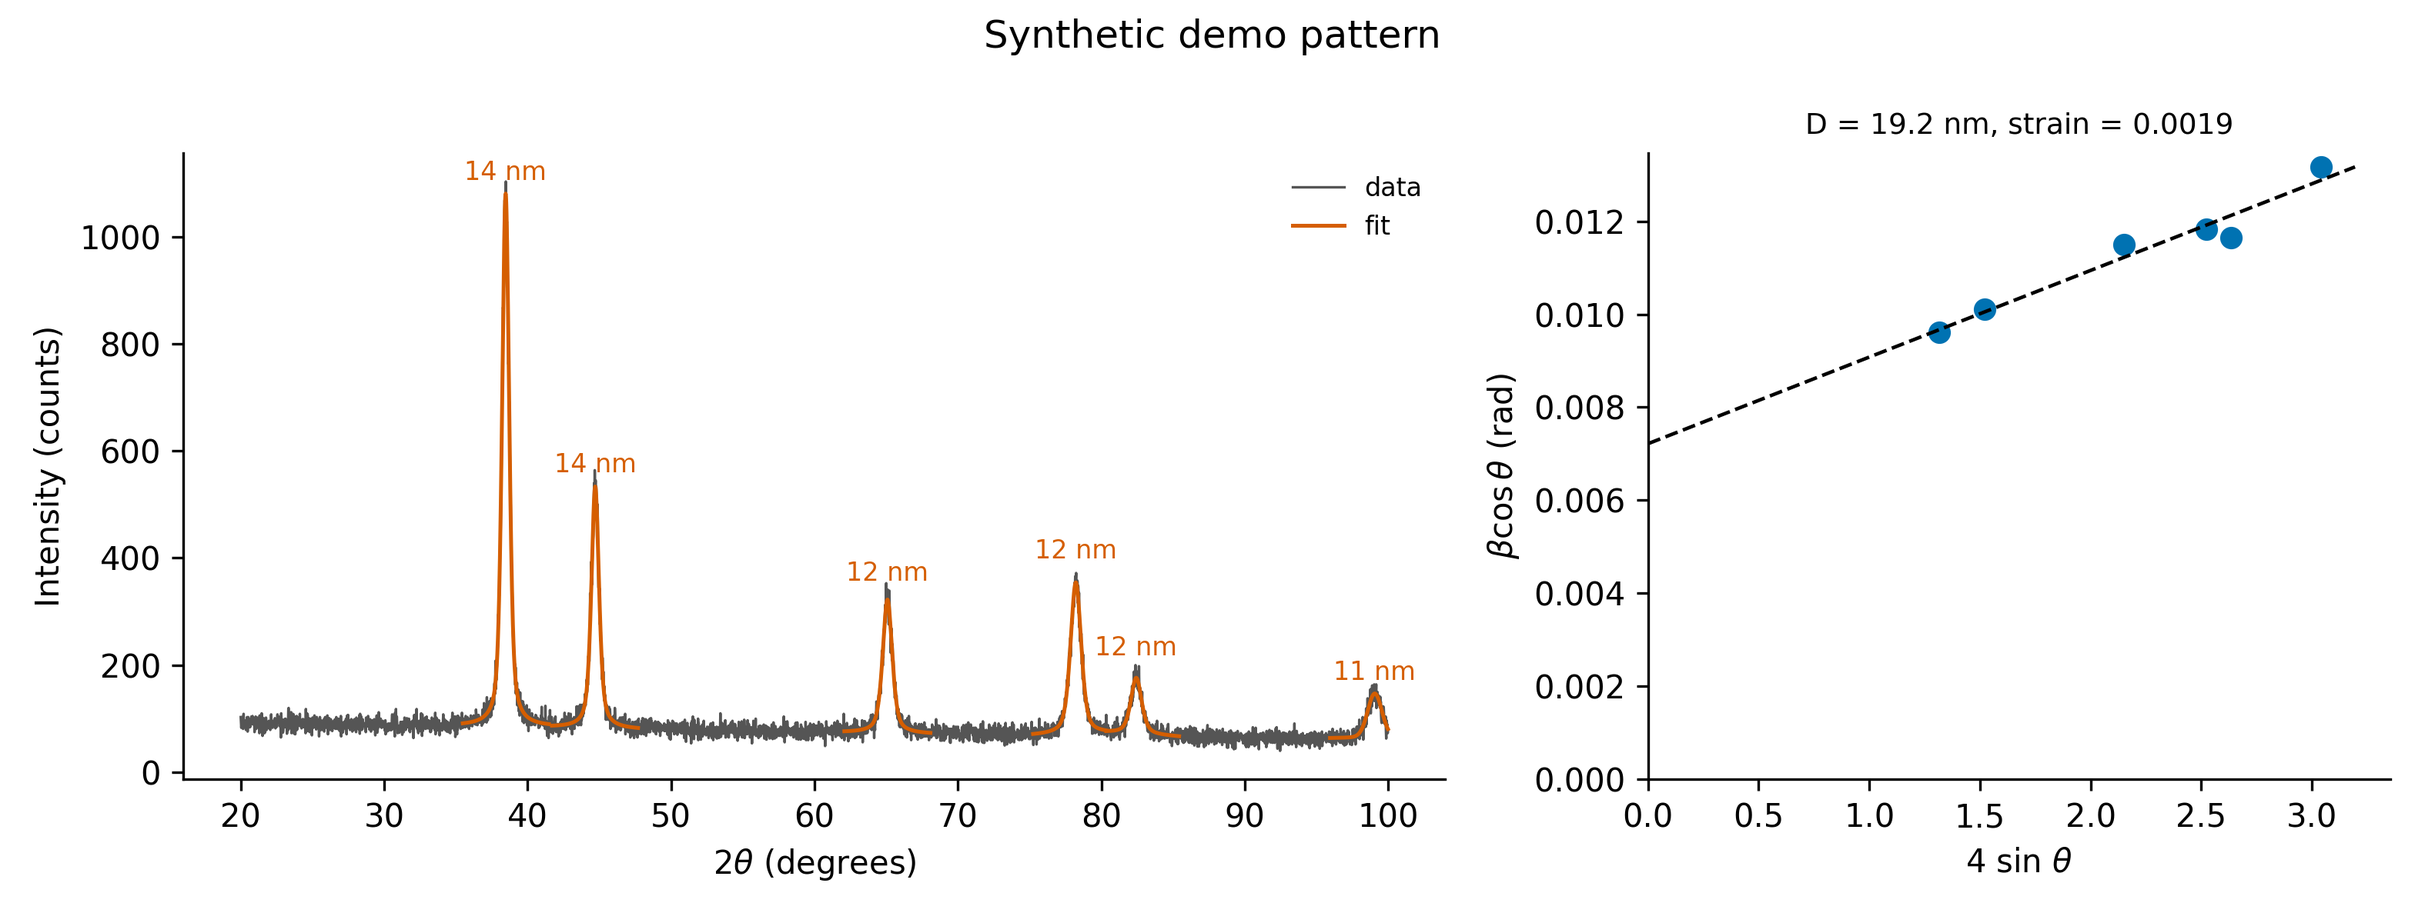
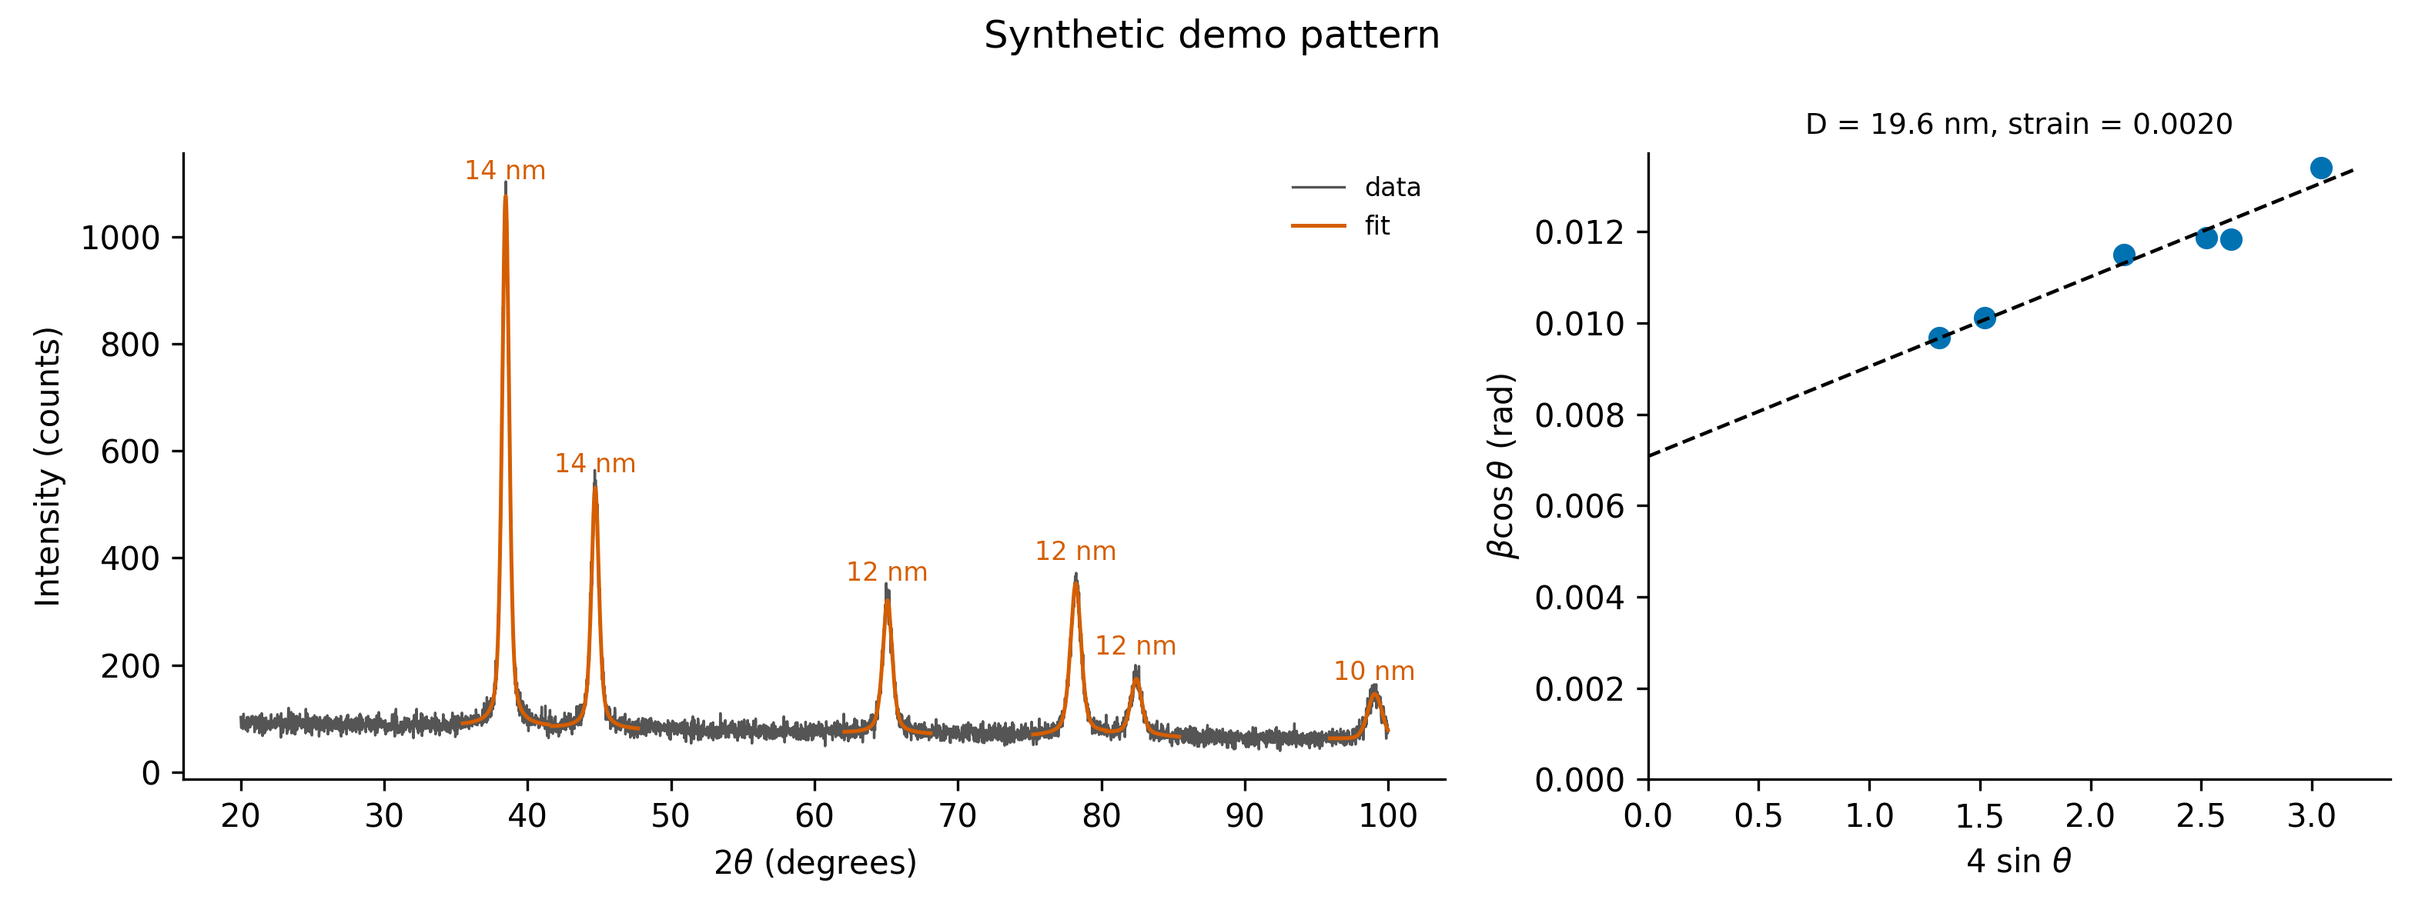
Day 17: weight peak fits by counting statistics so the fit uncertainties are calibrated

diff --git a/days/day17-xrd-scherrer/tool.py b/days/day17-xrd-scherrer/tool.py
@@ -26,7 +26,7 @@ from scipy.signal import find_peaks, savgol_filter
 K_DEFAULT = 0.9
 MIN_POINTS = 10
 RESULT_COLUMNS = ["two_theta_deg", "d_angstrom", "fwhm_obs_deg", "fwhm_corrected_deg", "size_nm", "size_unc_nm",
-                  "eta", "r_squared"]
+                  "eta", "r_squared", "chi2_reduced"]
 
 # Wavelengths in angstrom, as listed by the UNSW XRD Lab (Tian, "Choice of X-ray sources") and the UNT lecture
 # notes on XRD (Golden): the K-alpha1 line and the K-alpha weighted average of the alpha1/alpha2 doublet.
@@ -166,8 +166,20 @@ def detect_peaks(p: Pattern, prominence: float = 0.05, smooth: int | None = None
     return [float(p.x[i]) for i in idx]
 
 
-def fit_peak(p: Pattern, center: float, lo: float, hi: float) -> dict:
-    """Pseudo-Voigt fit of the peak near `center` using only the points between lo and hi."""
+def resolve_weights(mode: str, y: np.ndarray) -> str:
+    """'poisson' or 'none'. With 'auto', non-negative whole numbers are taken to be raw counts."""
+    if mode != "auto":
+        return mode
+    counts = bool(np.all(y >= 0) and np.all(np.abs(y - np.round(y)) < 1e-6))
+    return "poisson" if counts else "none"
+
+
+def fit_peak(p: Pattern, center: float, lo: float, hi: float, weights: str = "none") -> dict:
+    """Pseudo-Voigt fit of the peak near `center` using only the points between lo and hi.
+
+    weights='poisson' weights each point by its counting uncertainty sqrt(counts) and reports uncertainties from
+    those absolute weights (valid for raw counts). weights='none' fits with equal weights and scales the
+    uncertainties by the scatter of the residuals; this is only a rough guide when the noise grows with the signal."""
     mask = (p.x >= lo) & (p.x <= hi)
     if mask.sum() < MIN_POINTS:
         raise ValueError(f"too few points around {center:.2f} degrees")
@@ -179,8 +191,11 @@ def fit_peak(p: Pattern, center: float, lo: float, hi: float) -> dict:
     guess = [amp0, center, w0, 0.5, base, 0.0]
     bounds = ([0, center - w0, float(np.median(np.diff(x))), 0.0, -np.inf, -np.inf],
               [np.inf, center + w0, hi - lo, 1.0, np.inf, np.inf])
+    poisson = weights == "poisson"
+    sigma = np.sqrt(np.maximum(y, 1.0)) if poisson else None
     try:
-        popt, pcov = curve_fit(pseudo_voigt, x, y, p0=guess, bounds=bounds, maxfev=20000)
+        popt, pcov = curve_fit(pseudo_voigt, x, y, p0=guess, bounds=bounds, sigma=sigma, absolute_sigma=poisson,
+                               maxfev=20000)
     except (RuntimeError, ValueError) as err:
         raise ValueError(f"the fit near {center:.2f} degrees did not converge") from err
     err = np.sqrt(np.clip(np.diag(pcov), 0, None))
@@ -188,12 +203,15 @@ def fit_peak(p: Pattern, center: float, lo: float, hi: float) -> dict:
     near = np.abs(x - popt[1]) <= 1.5 * popt[2]
     resid = y[near] - pseudo_voigt(x[near], *popt)
     ss_tot = float(np.sum((y[near] - y[near].mean()) ** 2)) if near.sum() > 2 else 0.0
+    dof = x.size - len(popt)
+    chi2_red = float(np.sum(((y - pseudo_voigt(x, *popt)) / sigma) ** 2) / dof) if poisson and dof > 0 else None
     return {"amp": float(popt[0]), "x0": float(popt[1]), "fwhm": float(popt[2]), "eta": float(popt[3]),
             "fwhm_unc": float(err[2]), "x0_unc": float(err[1]), "popt": popt, "window": (float(x.min()), float(x.max())),
+            "chi2_red": chi2_red,
             "r2": 1.0 - float(np.sum(resid**2)) / ss_tot if ss_tot > 0 else None}
 
 
-def fit_all(p: Pattern, centers: list[float], max_half_window: float = 3.0) -> list[dict]:
+def fit_all(p: Pattern, centers: list[float], max_half_window: float = 3.0, weights: str = "none") -> list[dict]:
     """Fit every peak in a window that stops halfway to the neighbouring peaks."""
     centers = sorted(centers)
     fits = []
@@ -202,7 +220,7 @@ def fit_all(p: Pattern, centers: list[float], max_half_window: float = 3.0) -> l
         lo = c - half if i == 0 else max(c - half, (centers[i - 1] + c) / 2)
         hi = c + half if i == len(centers) - 1 else min(c + half, (centers[i + 1] + c) / 2)
         try:
-            fits.append(fit_peak(p, c, lo, hi))
+            fits.append(fit_peak(p, c, lo, hi, weights))
         except ValueError as err:
             print(f"[warn] {err}; peak skipped", file=sys.stderr)
     return fits
@@ -221,6 +239,10 @@ def size_warnings(rows: list[dict], inst: float, fits: list[dict] | None) -> lis
             notes.append(f"peak at {tt} degrees is only {r['fwhm_obs_deg'] / inst:.1f} times the instrumental width: "
                          "the size is very sensitive to the instrument value")
     for f in fits or []:
+        if f.get("chi2_red") is not None and f["chi2_red"] > 3:
+            notes.append(f"the peak at {f['x0']:.2f} degrees is not described within counting statistics (reduced "
+                         f"chi-square {f['chi2_red']:.1f}): its uncertainty is too small. Check for overlapping peaks "
+                         "or a different peak shape")
         if f["r2"] is not None and f["r2"] < 0.8:
             notes.append(f"the fit of the peak at {f['x0']:.2f} degrees is poor (R2 = {f['r2']:.3f}): check for "
                          "overlapping peaks or a noisy pattern")
@@ -295,7 +317,8 @@ def write_csv(path: Path, rows: list[dict], fits: list[dict] | None) -> None:
                 "size_nm": "" if r["size_nm"] is None else round(r["size_nm"], 2),
                 "size_unc_nm": "" if r["size_unc_nm"] is None else round(r["size_unc_nm"], 2),
                 "eta": "" if fit is None else round(fit["eta"], 3),
-                "r_squared": "" if fit is None or fit["r2"] is None else round(fit["r2"], 5)})
+                "r_squared": "" if fit is None or fit["r2"] is None else round(fit["r2"], 5),
+                "chi2_reduced": "" if fit is None or fit.get("chi2_red") is None else round(fit["chi2_red"], 3)})
 
 
 def main() -> int:
@@ -315,6 +338,9 @@ def main() -> int:
     ap.add_argument("--smooth", type=int, default=None, metavar="N",
                     help="smoothing window used only to detect peaks (default: about 0.25 degrees, 0 turns it off)")
     ap.add_argument("--min-separation", type=float, default=0.5, help="minimum distance between peaks in degrees")
+    ap.add_argument("--weights", choices=["auto", "poisson", "none"], default="auto",
+                    help="point weights in the peak fits: poisson (raw counts), none, or auto (default: poisson if the "
+                         "intensities are whole numbers)")
     ap.add_argument("--window", type=float, default=3.0,
                     help="half-width in degrees of the fit window around each peak (default 3; widen it for very broad peaks)")
     ap.add_argument("--column", help="intensity column (header name or number)")
@@ -336,7 +362,7 @@ def main() -> int:
         wavelength = args.wavelength if args.wavelength is not None else WAVELENGTHS[args.source]
         if wavelength <= 0 or args.k <= 0 or args.inst_fwhm < 0:
             raise ValueError("--wavelength and --k must be positive and --inst-fwhm must not be negative")
-        pattern, fits = None, None
+        pattern, fits, weights = None, None, "none"
         if args.peak:
             if any(tt <= 0 or tt >= 180 or w <= 0 for tt, w in args.peak):
                 raise ValueError("peak positions must be between 0 and 180 degrees and widths must be positive")
@@ -359,7 +385,11 @@ def main() -> int:
                 raise ValueError("no peaks found; try a smaller --prominence or give --peak-positions")
             if args.window <= 0:
                 raise ValueError("--window must be positive")
-            fits = fit_all(pattern, centers, args.window)
+            weights = resolve_weights(args.weights, pattern.y)
+            if weights == "poisson" and args.weights == "poisson" and not np.all(np.abs(pattern.y - np.round(pattern.y)) < 1e-6):
+                print("[warn] --weights poisson assumes raw counts, but the intensities are not whole numbers",
+                      file=sys.stderr)
+            fits = fit_all(pattern, centers, args.window, weights)
             if not fits:
                 raise ValueError("no peak could be fitted")
             rows = [analyze_peak(f["x0"], f["fwhm"], wavelength, k=args.k, inst=args.inst_fwhm, method=args.correction,
@@ -372,7 +402,8 @@ def main() -> int:
         print(f"error: {err}", file=sys.stderr)
         return 2
 
-    print(f"wavelength {wavelength:g} A, K = {args.k:g}, instrumental FWHM {args.inst_fwhm:g} deg ({args.correction})")
+    fit_note = f", fit weights: {weights}" if fits else ""
+    print(f"wavelength {wavelength:g} A, K = {args.k:g}, instrumental FWHM {args.inst_fwhm:g} deg ({args.correction}){fit_note}")
     print(result_table(rows))
     sizes = [r["size_nm"] for r in rows if r["size_nm"] is not None]
     if len(sizes) >= 2:

diff --git a/days/day17-xrd-scherrer/test_day17.py b/days/day17-xrd-scherrer/test_day17.py
@@ -270,3 +270,62 @@ def test_wide_window_for_a_very_broad_peak(tmp_path, monkeypatch, capsys):
     assert float(row[2]) == pytest.approx(6.0, rel=0.06) and float(row[4]) < 3.0  # size of a few nm
     assert run(monkeypatch, src, "--window", 0) == 2
     assert "--window must be positive" in capsys.readouterr().err
+
+
+# ---------- counting-statistics weights ----------
+def test_resolve_weights():
+    assert tool.resolve_weights("auto", np.array([0.0, 5.0, 120.0])) == "poisson"
+    assert tool.resolve_weights("auto", np.array([0.5, 5.0, 120.0])) == "none"  # counts per second, not counts
+    assert tool.resolve_weights("auto", np.array([-1.0, 5.0])) == "none"
+    assert tool.resolve_weights("none", np.array([1.0, 2.0])) == "none"
+    assert tool.resolve_weights("poisson", np.array([0.5])) == "poisson"
+
+
+def test_poisson_uncertainty_matches_the_scatter_of_repeated_fits():
+    """With raw counts the reported FWHM uncertainty should match the real scatter, and chi-square should be near 1."""
+    x = np.arange(35.0, 42.0, 0.02)
+    truth = 100 + 800 * tool.pseudo_voigt(x, 1.0, 38.47, 0.6, 0.5, 0.0, 0.0)
+    rng = np.random.default_rng(7)
+    widths, sigmas, chis = [], [], []
+    for _ in range(120):
+        fit = tool.fit_peak(tool.Pattern(x, rng.poisson(truth).astype(float)), 38.5, 36.0, 41.0, "poisson")
+        widths.append(fit["fwhm"])
+        sigmas.append(fit["fwhm_unc"])
+        chis.append(fit["chi2_red"])
+    assert np.mean(widths) == pytest.approx(0.6, abs=0.005)
+    assert np.mean(sigmas) == pytest.approx(np.std(widths), rel=0.25)
+    assert np.mean(chis) == pytest.approx(1.0, abs=0.1)
+
+
+def test_unweighted_fit_has_no_chi_square():
+    x = np.arange(35.0, 42.0, 0.02)
+    y = 100 + 800 * tool.pseudo_voigt(x, 1.0, 38.47, 0.6, 0.5, 0.0, 0.0)
+    assert tool.fit_peak(tool.Pattern(x, y), 38.5, 36.0, 41.0, "none")["chi2_red"] is None
+
+
+def test_poor_model_is_flagged_by_chi_square():
+    row = tool.analyze_peak(38.5, 0.5, LAMBDA, k=K, inst=0.0, method="none")
+    notes = tool.size_warnings([row], 0.0, [{"x0": 38.5, "r2": 0.99, "chi2_red": 8.2}])
+    assert any("counting statistics" in n and "8.2" in n for n in notes)
+    assert tool.size_warnings([row], 0.0, [{"x0": 38.5, "r2": 0.99, "chi2_red": 1.1}]) == []
+
+
+def test_cli_weights_auto_and_forced(tmp_path, monkeypatch, capsys):
+    assert run(monkeypatch, EXAMPLE, "--inst-fwhm", 0.08) == 0
+    assert "fit weights: poisson" in capsys.readouterr().out  # the example holds raw counts
+    data = np.loadtxt(EXAMPLE, delimiter=",", skiprows=1)
+    rates = write(tmp_path, "".join(f"{a:.2f},{b / 10:.3f}\n" for a, b in data), "rates.csv")
+    assert run(monkeypatch, rates, "--inst-fwhm", 0.08) == 0
+    assert "fit weights: none" in capsys.readouterr().out
+    assert run(monkeypatch, rates, "--inst-fwhm", 0.08, "--weights", "poisson") == 0
+    captured = capsys.readouterr()
+    assert "fit weights: poisson" in captured.out and "assumes raw counts" in captured.err
+
+
+def test_csv_has_chi_square_column(tmp_path, monkeypatch):
+    out = tmp_path / "r.csv"
+    assert run(monkeypatch, EXAMPLE, "--inst-fwhm", 0.08, "--csv", out) == 0
+    rows = list(csv.DictReader(out.open()))
+    assert "chi2_reduced" in rows[0] and all(0.5 < float(r["chi2_reduced"]) < 2.0 for r in rows)
+    assert run(monkeypatch, EXAMPLE, "--weights", "none", "--csv", out) == 0
+    assert next(iter(csv.DictReader(out.open())))["chi2_reduced"] == ""

diff --git a/days/day17-xrd-scherrer/README.md b/days/day17-xrd-scherrer/README.md
@@ -14,22 +14,22 @@ A pattern file has 2-theta (degrees) in column 1 and the intensity in column 2. 
 python tool.py example/synthetic_xrd.csv --inst-fwhm 0.08 --williamson-hall -o xrd.png --title "Synthetic demo pattern"
 ```
 ```
-wavelength 1.54056 A, K = 0.9, instrumental FWHM 0.08 deg (gaussian)
+wavelength 1.54056 A, K = 0.9, instrumental FWHM 0.08 deg (gaussian), fit weights: poisson
  2theta    d (A)   FWHM obs  FWHM corr  size (nm)  +/- (nm)
-  38.47   2.3382     0.5891     0.5837       14.4       0.1
-  44.71   2.0251     0.6310     0.6259       13.7       0.2
-  65.09   1.4319     0.7860     0.7819       12.1       0.2
-  78.22   1.2211     0.8776     0.8740       11.7       0.2
-  82.43   1.1690     0.8908     0.8872       11.9       0.4
-  99.06   1.0125     1.1650     1.1622       10.5       0.9
-Scherrer size over 6 peaks: mean 12.4 nm, SD 1.4 nm
-Williamson-Hall (6 peaks): size 19.2 +/- 1.3 nm, strain 0.00186 +/- 0.00021, R2 0.952
+  38.47   2.3382     0.5929     0.5874       14.3       0.1
+  44.71   2.0251     0.6320     0.6269       13.7       0.2
+  65.09   1.4319     0.7859     0.7818       12.1       0.3
+  78.22   1.2211     0.8807     0.8770       11.7       0.2
+  82.43   1.1690     0.9056     0.9021       11.7       0.5
+  99.07   1.0125     1.1863     1.1836       10.3       0.8
+Scherrer size over 6 peaks: mean 12.3 nm, SD 1.5 nm
+Williamson-Hall (6 peaks): size 19.6 +/- 1.3 nm, strain 0.00197 +/- 0.00020, R2 0.960
 ```
 ![Synthetic XRD pattern with the fitted peaks and their Scherrer sizes, and a Williamson-Hall plot](example/xrd.png)
 
 **The example data are synthetic.** `make_example.py` generates them (fixed random seed): a face-centered cubic pattern whose peak widths follow the Williamson-Hall relation with a true size of 20 nm and a strain of 0.002, plus an instrumental width of 0.08 degrees, a sloping background and counting noise. They are not measured data.
 
-This example shows why one peak is not enough. The Scherrer size falls from 14.4 nm to 10.5 nm as the angle rises, because strain broadening grows with the angle and the plain Scherrer equation attributes all of the broadening to size. The Williamson-Hall fit separates the two and returns 19.2 +/- 1.3 nm and a strain of 0.0019, consistent with the 20 nm and 0.002 used to make the data.
+This example shows why one peak is not enough. The Scherrer size falls from 14.3 nm to 10.3 nm as the angle rises, because strain broadening grows with the angle and the plain Scherrer equation attributes all of the broadening to size. The Williamson-Hall fit separates the two and returns 19.6 +/- 1.3 nm and a strain of 0.0020, consistent with the 20 nm and 0.002 used to make the data.
 
 Peaks you measured yourself (no file needed):
 ```bash
@@ -55,6 +55,7 @@ python tool.py pattern.csv --inst-fwhm 0.06 --correction lorentzian --prominence
 | `--range LOW HIGH` | use only this 2-theta range |
 | `--peak-positions` | fit these positions instead of detecting peaks |
 | `--prominence`, `--smooth`, `--min-separation` | peak detection: threshold as a fraction of the intensity range (default 0.05), smoothing used only for detection (default about 0.25 degrees, 0 turns it off) and minimum distance between peaks (degrees) |
+| `--weights` | point weights in the fits: `auto` (default: `poisson` if the intensities are whole numbers), `poisson` (counting statistics, for raw counts) or `none` |
 | `--window` | half-width of the fit window in degrees (default 3). Widen it for very broad peaks |
 | `--williamson-hall` | also fit a Williamson-Hall plot |
 | `--peak 2THETA FWHM` | give a peak directly instead of a file (repeat for several) |
@@ -62,7 +63,7 @@ python tool.py pattern.csv --inst-fwhm 0.06 --correction lorentzian --prominence
 
 ## Method
 1. **Detect peaks.** The pattern is smoothed (for detection only) and peaks are found with `scipy.signal.find_peaks`. Smoothing matters: on raw counting noise a random spike can look prominent next to the deepest noise dips, and without it the example pattern gives false peaks.
-2. **Fit each peak** on the raw data with a pseudo-Voigt function (one FWHM for the Gaussian and Lorentzian parts, a free mixing fraction) on a linear background, in a window that stops halfway to the neighbouring peak. The fit gives the position, the FWHM and its uncertainty.
+2. **Fit each peak** on the raw data with a pseudo-Voigt function (one FWHM for the Gaussian and Lorentzian parts, a free mixing fraction) on a linear background, in a window that stops halfway to the neighbouring peak. The fit gives the position, the FWHM and its uncertainty. For raw counts the points are weighted by their counting uncertainty, sqrt(counts), and the uncertainties are taken from those absolute weights; the reduced chi-square is reported as a check (about 1 means the peak shape describes the data within counting noise). For intensities that are not counts the fit uses equal weights.
 3. **Remove the instrument.** Gaussian: beta = sqrt(FWHM_obs^2 - FWHM_inst^2). Lorentzian: beta = FWHM_obs - FWHM_inst. If the peak is not wider than the instrument, no size is reported.
 4. **Scherrer equation:** D = K x lambda / (beta x cos(theta)), with beta in radians and theta half of the 2-theta position. The uncertainty comes from the FWHM uncertainty of the fit.
 5. **Williamson-Hall** (optional): the points beta x cos(theta) against 4 sin(theta) are fitted with a line. The intercept is K x lambda / D and the slope is the strain.
@@ -74,7 +75,7 @@ Wavelengths are the values listed by the UNSW XRD Lab (Tian, "Choice of X-ray so
 ```bash
 pytest days/day17-xrd-scherrer
 ```
-The tests check the equation by hand, its scaling, the instrument corrections, the size uncertainty against a simulation, exact recovery of size and strain from the Williamson-Hall fit, the peak shape, fitting and detection on a synthetic pattern with counting noise, the file reader, the warnings and every error message.
+The tests check the equation by hand, its scaling, the instrument corrections, the size uncertainty against a simulation, the fit uncertainty and reduced chi-square against 120 simulated fits, exact recovery of size and strain from the Williamson-Hall fit, the peak shape, fitting and detection on a synthetic pattern with counting noise, the file reader, the warnings and every error message.
 
 ## Limitations
 - **Scherrer gives the size of coherently diffracting domains, not the particle size.** It applies to crystallites below about 100 nm. Above that the broadening is close to the instrument's and the result is not reliable (the tool warns).
@@ -84,7 +85,9 @@ The tests check the equation by hand, its scaling, the instrument corrections, t
 - The Cu K-alpha1/alpha2 doublet is not separated. At high angles the unresolved doublet widens the peaks, so use K-alpha1 data if you have it.
 - Overlapping peaks are fitted one at a time, so they should be separated by more than their widths. A joint fit of overlapping peaks is not implemented.
 - Very broad peaks (a few degrees wide, as for the graphitic band of many carbon dots) need `--window` and `--smooth 0`, and the result then reflects a few nanometres of coherent ordering and not the size of a particle. Compare it with TEM.
-- The warning for a poor fit (R2 below 0.8, measured near the peak) only catches clear failures. Check the plot.
+- **The uncertainties are only as good as the weights.** In a simulation of 300 noisy peaks, the Poisson-weighted fit reported an FWHM uncertainty that matched the real scatter (97% of it, reduced chi-square 1.01), while an equal-weight fit of the same counts reported only 57% of it, because the noise grows with the signal. If your intensities are counts per second or normalized, convert them back to raw counts (multiply by the counting time) before fitting, or treat the uncertainties as optimistic.
+- The uncertainties cover counting noise and the fit only. They do not include the instrumental width, K, the choice of peak shape or the background model, which usually matter more.
+- The warning for a poor fit (R2 below 0.8 near the peak, or a reduced chi-square above 3) only catches clear failures. Check the plot.
 
 ## Next
 Day 18: TEM particle size distribution from measurements (histogram plus lognormal fit).
